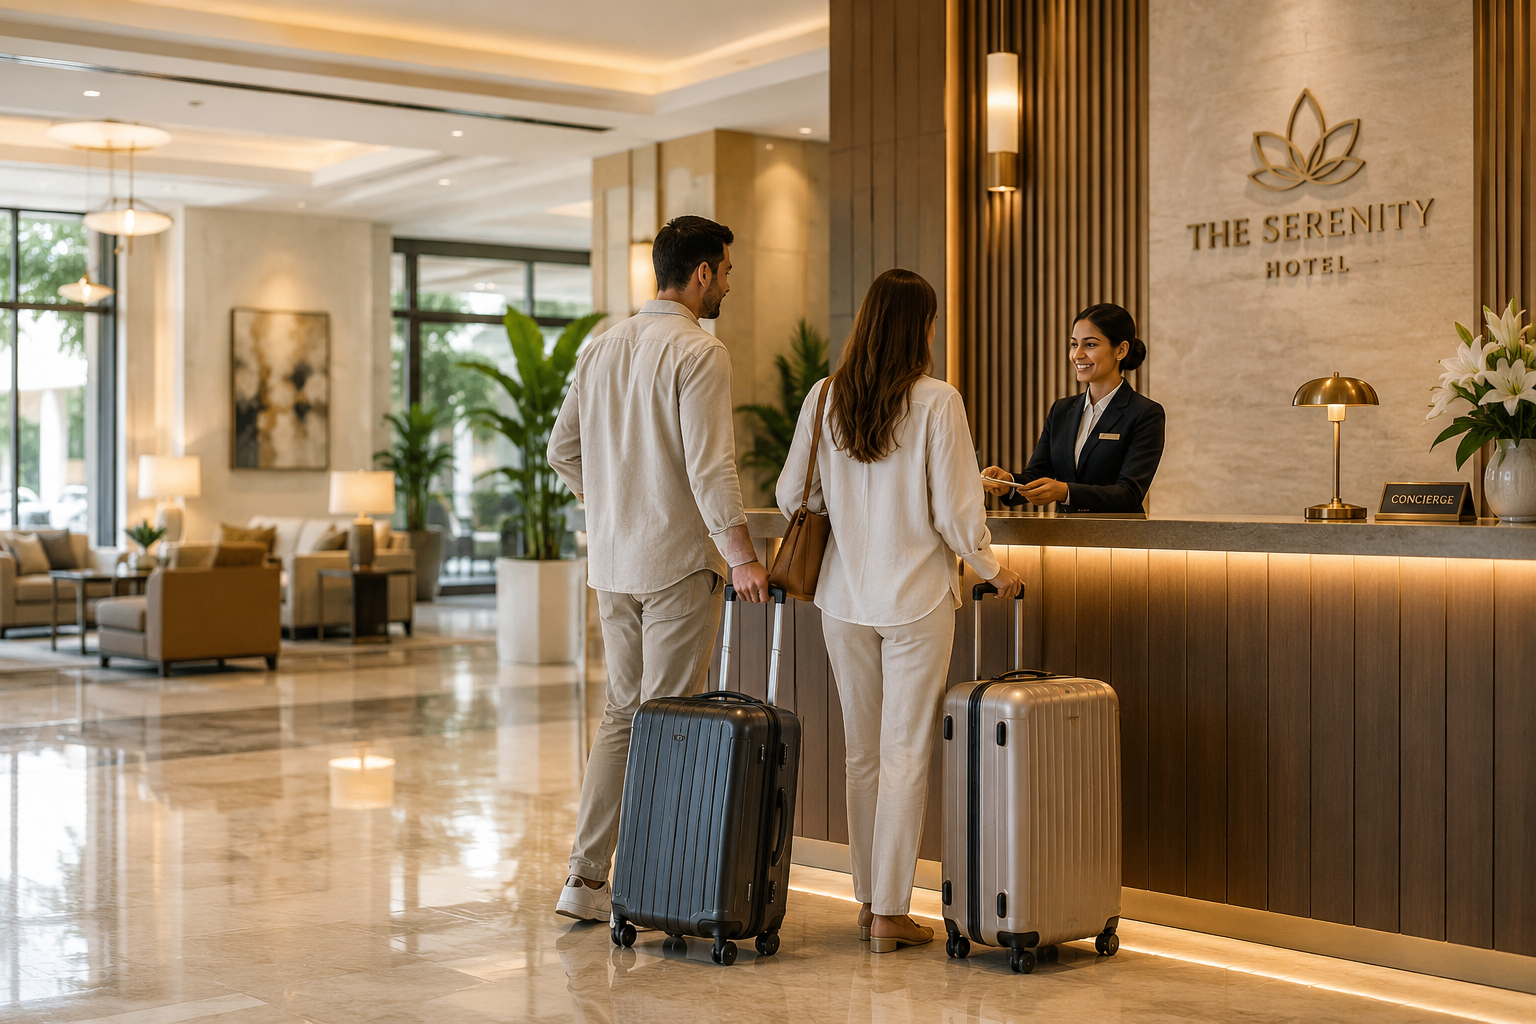
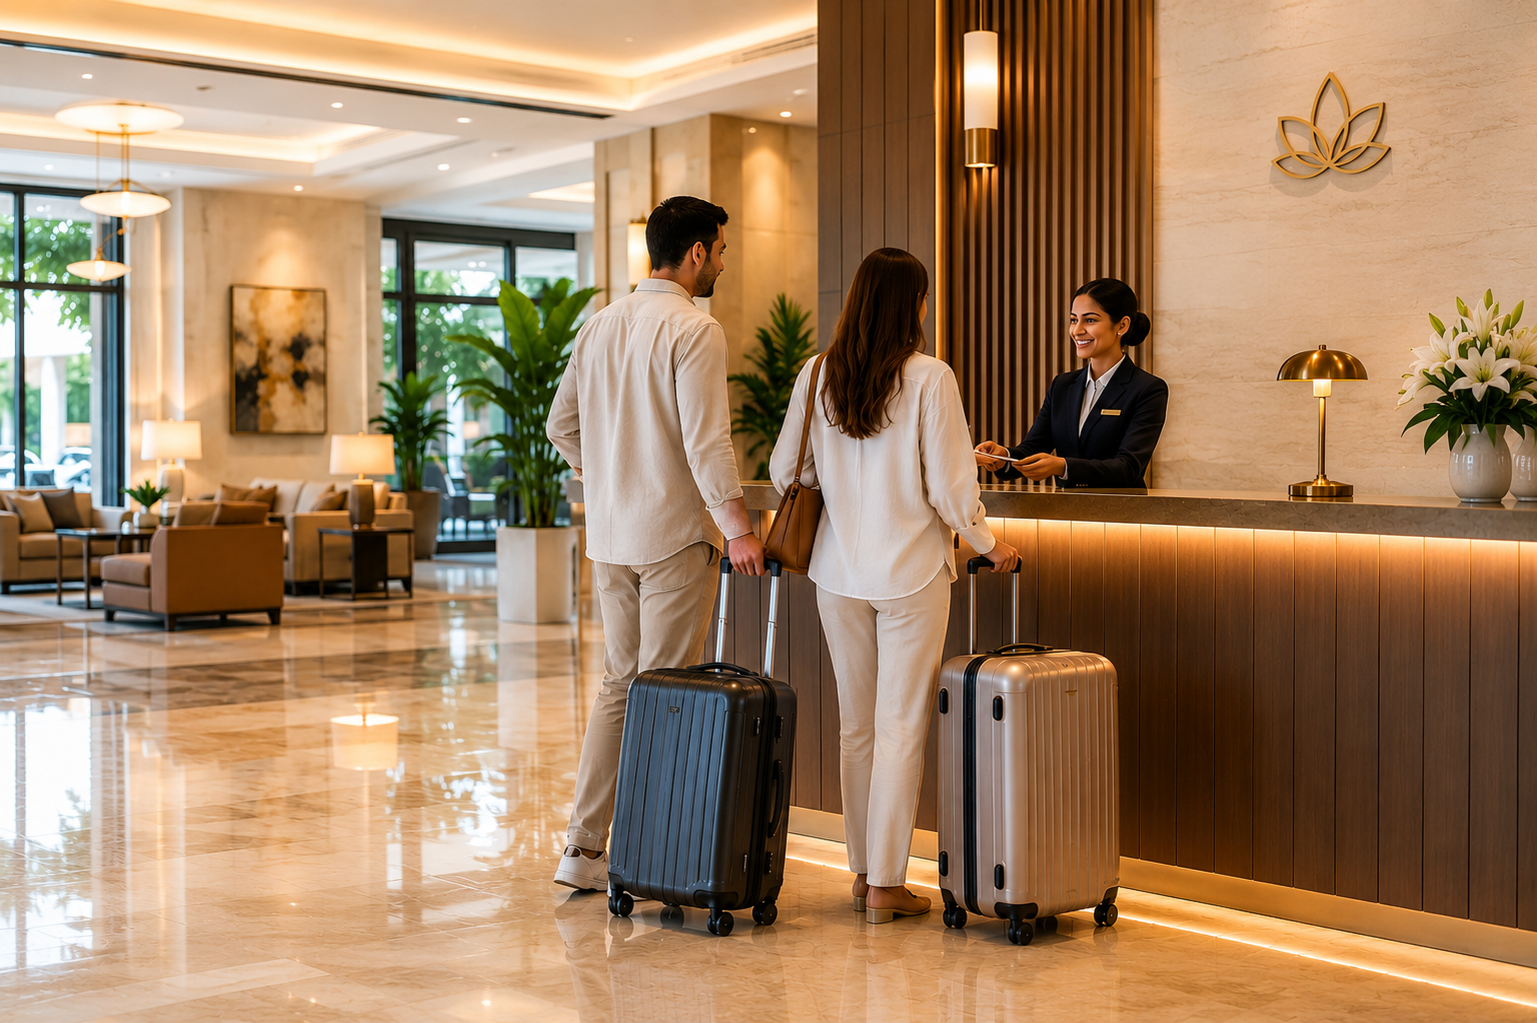
Travel Image updated

diff --git a/src/components/landing/hero.tsx b/src/components/landing/hero.tsx
@@ -90,7 +90,7 @@ export default function Hero() {
 
       <div className="relative z-10 mx-auto px-4 lg:px-8">
         {/* Main Hero */}
-        <div className="flex min-h-[72vh] items-center ">
+        <div className="flex min-h-[72vh] items-center mt-4 ">
           <div className="max-w-3xl">
             <motion.h1
               initial={{ opacity: 0, y: 30 }}